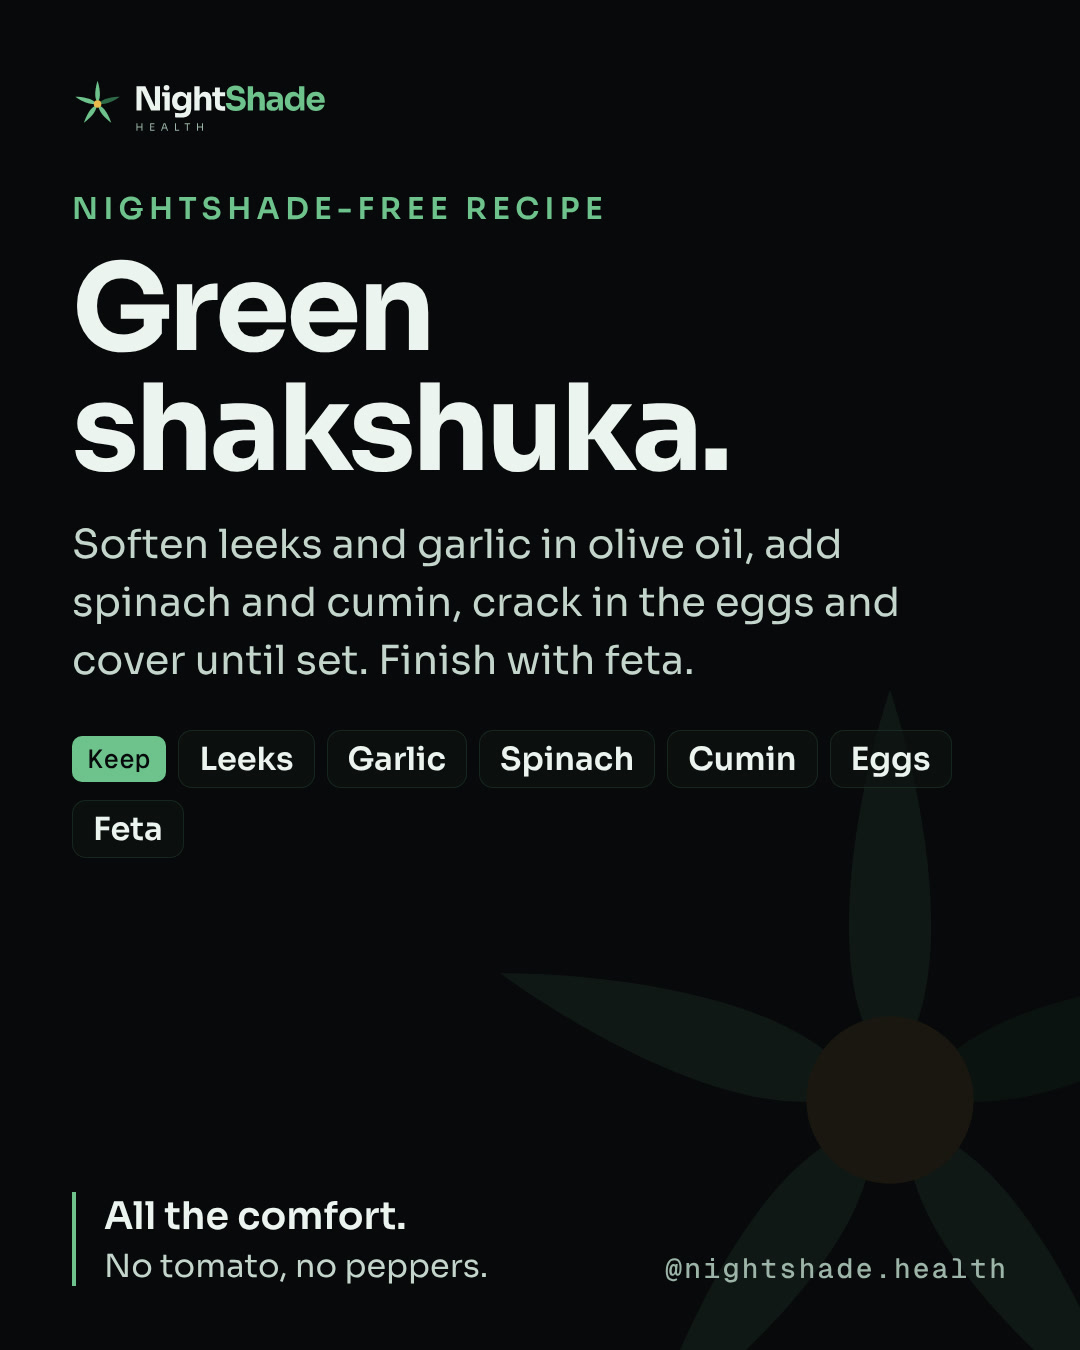
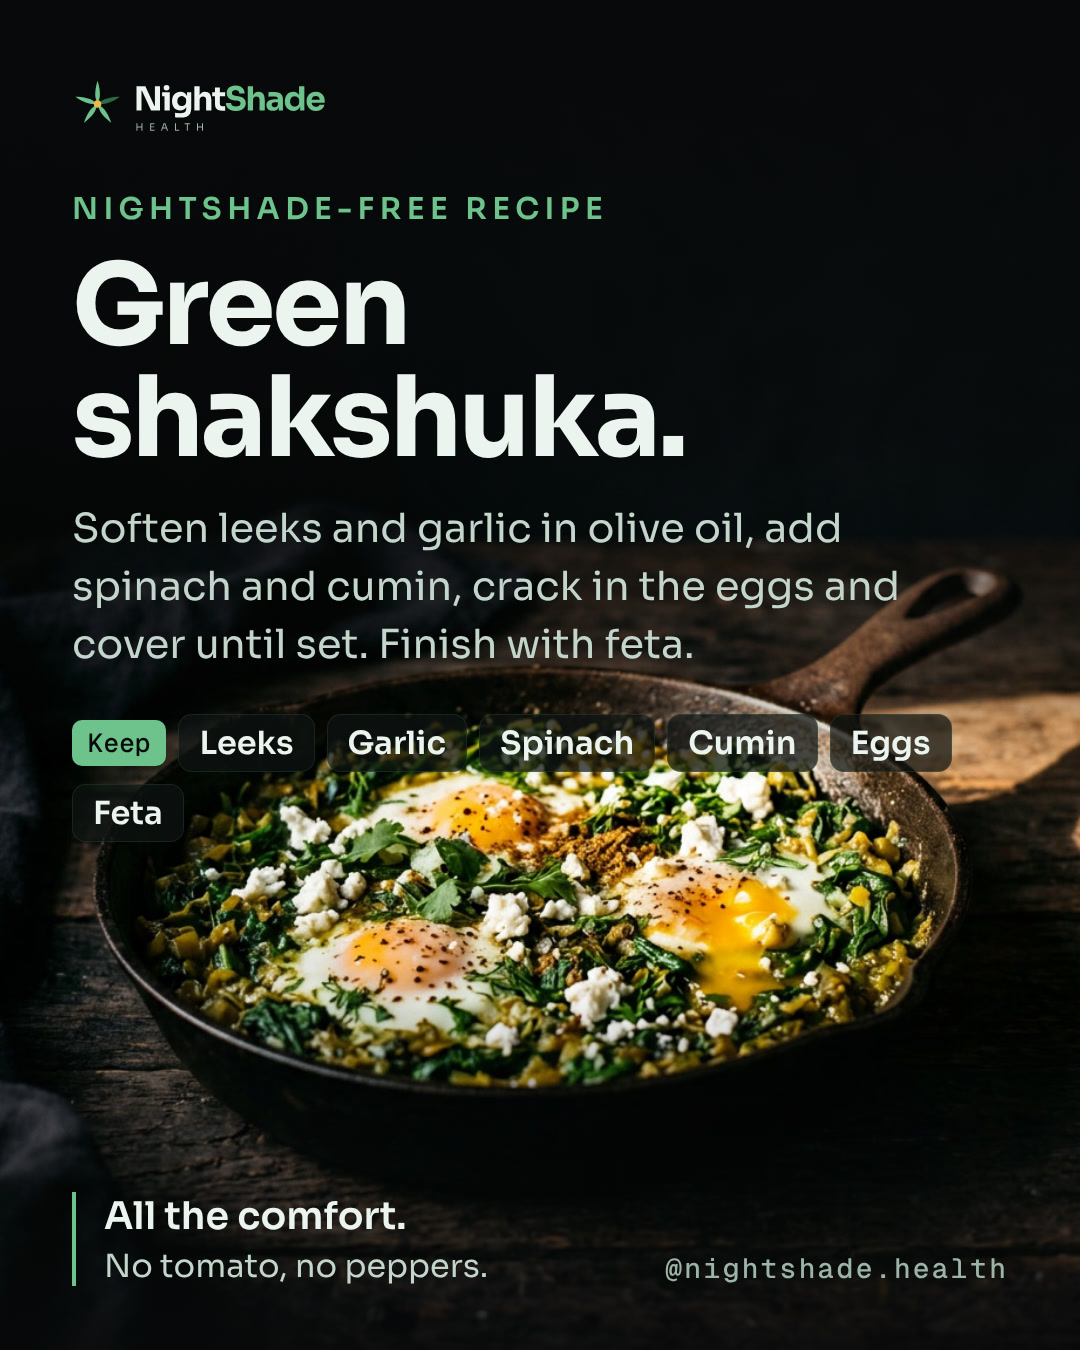
Add photos to green shakshuka and hawawshi cards
Claude-Session: https://claude.ai/code/session_019qCzaCx3WfYVTS2hDbekSA

diff --git a/remotion/src/Cards.tsx b/remotion/src/Cards.tsx
@@ -214,7 +214,7 @@ export const CARDS: Record<string, CardSpec> = {
     note: {strong: 'Read before you pour.'},
   },
   'green-shakshuka': {
-    overline: 'Nightshade-free recipe', headline: 'Green shakshuka.', size: 120,
+    photo: 'green-shakshuka.jpg', overline: 'Nightshade-free recipe', headline: 'Green shakshuka.', size: 112,
     sub: 'Soften leeks and garlic in olive oil, add spinach and cumin, crack in the eggs and cover until set. Finish with feta.',
     groups: [{chip: 'Keep', tone: 'keep', items: ['Leeks', 'Garlic', 'Spinach', 'Cumin', 'Eggs', 'Feta']}],
     note: {strong: 'All the comfort.', soft: 'No tomato, no peppers.'},
@@ -233,7 +233,7 @@ export const CARDS: Record<string, CardSpec> = {
     groups: [{chip: 'Check for', tone: 'no', items: ['Paprika', 'Tomato powder', '"Spices"']}],
   },
   hawawshi: {
-    overline: 'Egyptian kitchen swap', headline: 'Hawawshi, nightshade-free.', size: 110,
+    photo: 'hawawshi.jpg', overline: 'Egyptian kitchen swap', headline: 'Hawawshi, nightshade-free.', size: 100,
     groups: [{chip: 'Keep', tone: 'keep', items: ['Minced meat', 'Onion', 'Parsley', 'Garlic', 'Cumin', 'Black pepper']}],
     note: {strong: 'Skip the bell peppers and chili.', soft: 'Stuff into baladi bread and bake until crisp.'},
   },
